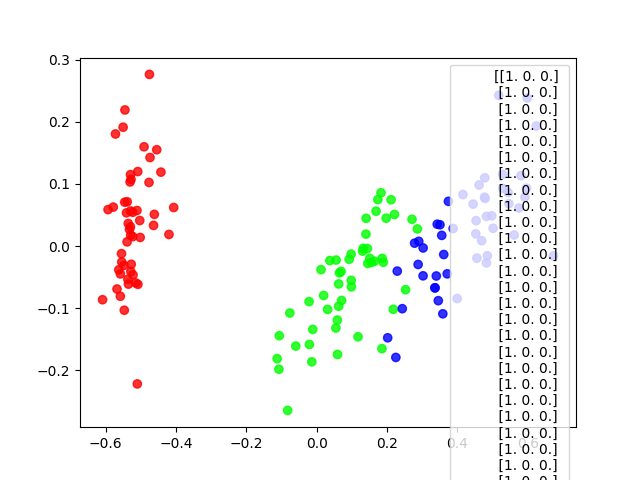
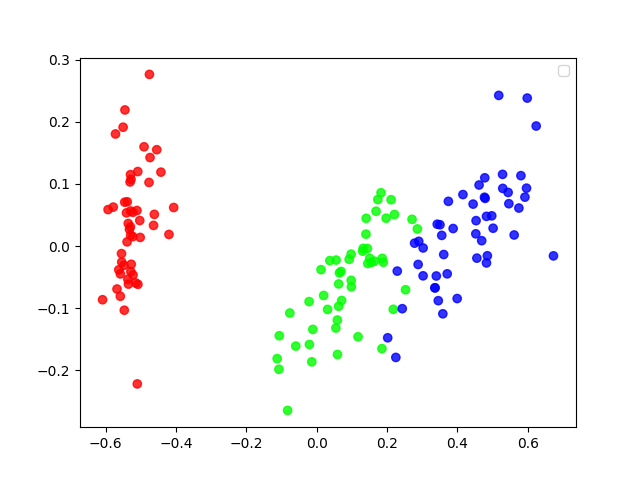
ここでどうにかすｒ７お

Changed region(s): [[0.6875, 0.125, 0.875, 1.0], [0.6875, 0.9062, 0.75, 0.9375], [0.6875, 0.5938, 0.7188, 0.6562]]

diff --git a/main.py b/main.py
@@ -38,13 +38,15 @@ if __name__ == '__main__':
     # one-hot encoding
     y_train = np_utils.to_categorical(y_train)
 
-    pca = PCA()
+    pca = PCA(n_components=2)
     pca.fit(x_train)
     feature = pca.transform(x_train)   # 主成分分析で変換 (60000,784)
 
     fig = plt.figure()
     plt.scatter(feature[:,0],feature[:,1],alpha=0.8,c=y_train)
     plt.legend()
+    plt.xlabel("x0")
+    plt.ylabel("x1")
     fig.savefig("PCA.png")
     plt.clf()
     plt.close()
